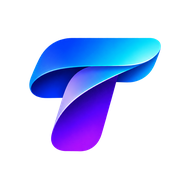
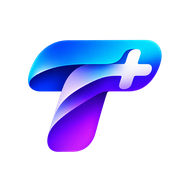
tayyorr+ logosi (T+): tayyorr+ ikonkalari, bildirishnoma belgisi, logotip va tayyorr.uz/ilovadagi tayyorr+ kartalari

Changed region(s): [[0.125, 0.1875, 0.8438, 0.8125]]

diff --git a/smm/src/components/logo.tsx b/smm/src/components/logo.tsx
@@ -1,4 +1,4 @@
-/** tayyorr+ logotipi: rangli "T" belgisi + "tayyorr+" yozuvi. */
+/** tayyorr+ logotipi: rangli "T+" belgisi + "tayyorr+" yozuvi. */
 export function Logo({
   className = "text-xl",
   markClassName = "h-[1.5em]",
@@ -19,11 +19,11 @@ export function Logo({
         // rangli fonda belgi oq kartochka ichida turadi — ranglari yo'qolib ketmaydi
         <span className="grid h-[1.6em] w-[1.6em] shrink-0 place-items-center rounded-[0.45em] bg-white shadow-sm">
           {/* eslint-disable-next-line @next/next/no-img-element */}
-          <img src="/logo-mark.png" alt="" aria-hidden className="h-[1.1em] w-auto" draggable={false} />
+          <img src="/plus-mark.png" alt="" aria-hidden className="h-[1.3em] w-auto" draggable={false} />
         </span>
       ) : (
         // eslint-disable-next-line @next/next/no-img-element
-        <img src="/logo-mark.png" alt="" aria-hidden className={`w-auto shrink-0 ${markClassName}`} draggable={false} />
+        <img src="/plus-mark.png" alt="" aria-hidden className={`w-auto shrink-0 ${markClassName}`} draggable={false} />
       )}
       <span>
         tayyorr

diff --git a/src/components/tayyorr-plus-card.tsx b/src/components/tayyorr-plus-card.tsx
@@ -12,7 +12,7 @@ export function TayyorrPlusCard({ compact = false }: { compact?: boolean }) {
     >
       <span className="grid h-9 w-9 shrink-0 place-items-center rounded-lg bg-[#fff] shadow-sm">
         {/* eslint-disable-next-line @next/next/no-img-element */}
-        <img src="/logo-mark.png" alt="" className="h-6 w-6 object-contain" />
+        <img src="/plus-mark.png" alt="" className="h-6 w-6 object-contain" />
       </span>
       <span className="min-w-0 flex-1">
         <span className="block font-display text-sm font-bold leading-tight">

diff --git a/mobile/lib/features/plus/plus_webview_screen.dart b/mobile/lib/features/plus/plus_webview_screen.dart
@@ -105,7 +105,7 @@ class _PlusWebViewScreenState extends State<PlusWebViewScreen> {
           title: Row(
             mainAxisSize: MainAxisSize.min,
             children: [
-              Image.asset('assets/logo-mark.png', height: 28, filterQuality: FilterQuality.high),
+              Image.asset('assets/plus-mark.png', height: 28, filterQuality: FilterQuality.high),
               const SizedBox(width: 8),
               const Text.rich(
                 TextSpan(children: [

diff --git a/mobile/lib/widgets/app_header_sliver.dart b/mobile/lib/widgets/app_header_sliver.dart
@@ -393,7 +393,7 @@ class _PlusCard extends StatelessWidget {
                 color: Colors.white,
                 borderRadius: BorderRadius.circular(9),
               ),
-              child: Image.asset('assets/logo-mark.png', filterQuality: FilterQuality.high),
+              child: Image.asset('assets/plus-mark.png', filterQuality: FilterQuality.high),
             ),
             const SizedBox(width: 10),
             const Expanded(
